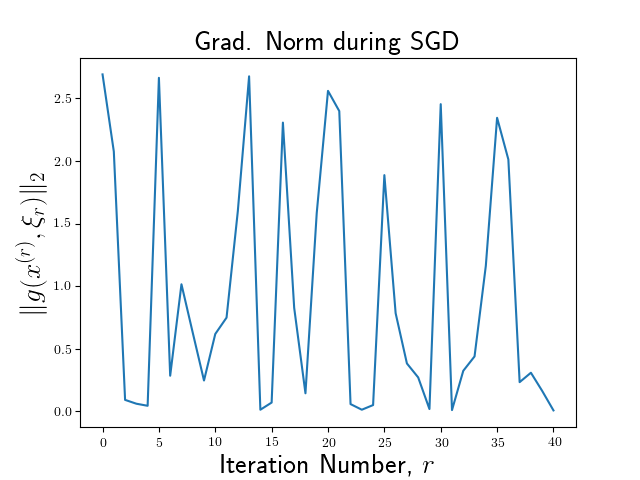
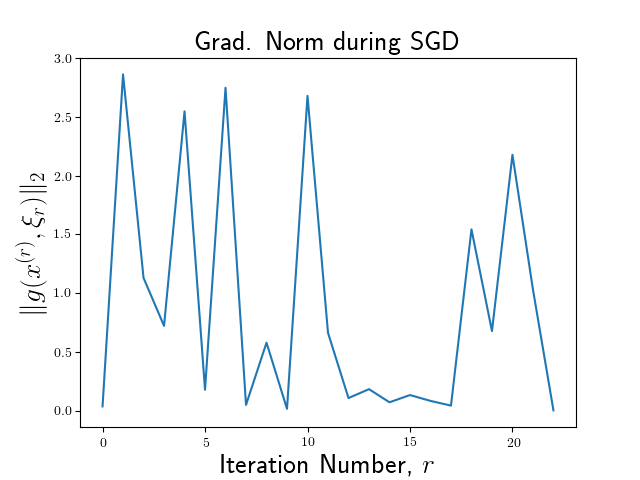
Added plot

diff --git a/SVRG_experiments.py b/SVRG_experiments.py
@@ -182,9 +182,12 @@ def SVRG_testbed(X_train, y_train, X_test, y_test):
     
     text_format = {'color': 'k', 'fontsize': 20}
     
+    '''
     freq = 10
-    w_sgd, grad_norms_sgd, scaled_grad_norms_sgd = SGD_logistic(X_train.to_numpy(), y_train.to_numpy())
+    #w_sgd, grad_norms_sgd, scaled_grad_norms_sgd = SGD_logistic(X_train.to_numpy(), y_train.to_numpy())
     
+    w_svrg, grad_norms_svrg, _, _ = SVRG_logistic(X_train.to_numpy(), y_train.to_numpy(), freq)
+    #iters = np.arange(len(grad_norms_svrg))
     plt.figure(1)
     plt.plot(grad_norms_sgd)
     plt.xlabel('Iteration Number, $r$', text_format)
@@ -192,6 +195,7 @@ def SVRG_testbed(X_train, y_train, X_test, y_test):
     plt.title('Grad. Norm during SGD', text_format)
     plt.savefig('plots/SGD_Full_Convergence_ex.png')
 
+    
     plt.figure(2)
     plt.plot(scaled_grad_norms_sgd)
     plt.xlabel('Iteration Number, $r$', text_format)
@@ -199,12 +203,7 @@ def SVRG_testbed(X_train, y_train, X_test, y_test):
     plt.title('Scaled Grad. Norm during SGD', text_format)
     plt.savefig('plots/SGD_Scaled_Full_Convergence_ex.png')
 
-    #w_svrg, grad_norms_svrg, _, _ = SVRG_logistic(X_train.to_numpy(), y_train.to_numpy(), freq)
-    #iters = np.arange(len(grad_norms_svrg))
     
-    
-
-    '''
     plt.figure(2)
     plt.plot(grad_norms_svrg)
     plt.xlabel('Iteration Number, $s$', text_format)
@@ -212,7 +211,8 @@ def SVRG_testbed(X_train, y_train, X_test, y_test):
     plt.title('Convergence Behavior of SVRG', text_format)
     plt.savefig('plots/SVRG_Convergence_ex.png')
     #title_text_format = {'color': 'k', 'fontsize': 16}
-   
+    '''
+    N = len(X_train)
     update_freqs = [2,5,10,15,20,25,30,35,40,45,50,75,100]
     SVRG_ws = []
     SVRG_tot_iters = []
@@ -225,6 +225,16 @@ def SVRG_testbed(X_train, y_train, X_test, y_test):
         SVRG_s_iters.append(s_iters)
         SVRG_accuracies.append(accuracy(X_test.to_numpy(), y_test.to_numpy(), w))
 
+    SVRG_tot_it_np = np.array(SVRG_tot_iters)
+    SVRG_s_it_np = np.array(SVRG_s_iters)
+    total_gradient_calcs = (2*SVRG_tot_it_np + N*SVRG_s_it_np)/N  
+    plt.figure(1)
+    plt.plot(update_freqs, total_gradient_calcs)
+    plt.xlabel('Update Frequency, m', text_format)
+    plt.ylabel('num grad./$N$', text_format)
+    plt.title('Health Insurance: Number of Gradient Calculations Required to Converge', text_format)
+    plt.savefig('SVRG_health_normalized_grad_across_update_freq.png')
+    '''
     plt.figure(1)
     plt.plot(update_freqs, SVRG_s_iters)
     plt.xlabel('Update Frequency, m', text_format)
